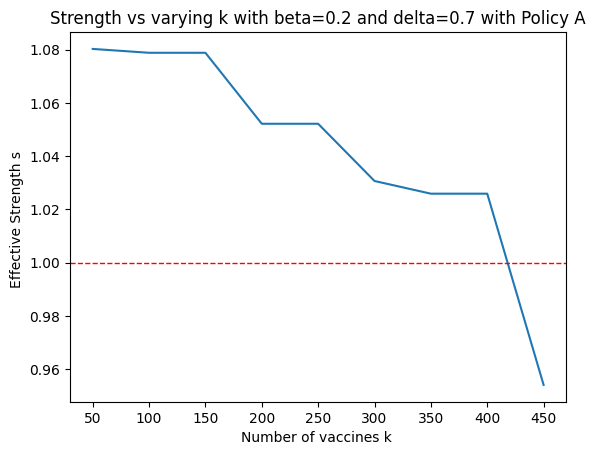
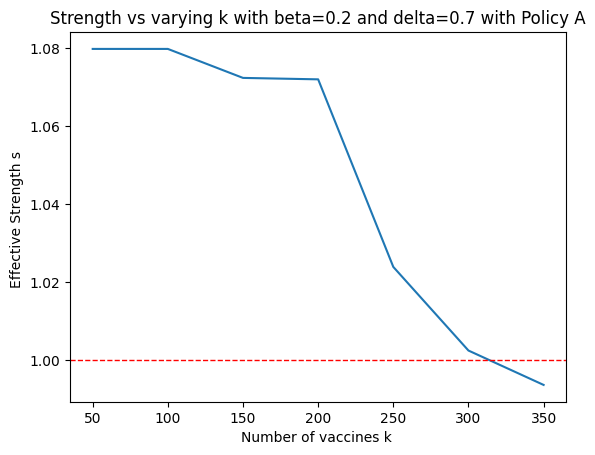
Add part 2 and other code updates

diff --git a/main.py b/main.py
@@ -3,9 +3,9 @@ import numpy as np
 import matplotlib.pyplot as plt
 import random
 from operator import itemgetter
-from copy import copy, deepcopy
+from copy import deepcopy
 
-random.seed(100)
+random.seed(1000)
 
 #Given values for the model to run on
 beta1 = 0.2
@@ -62,24 +62,68 @@ def static_beta(eigen_value, beta, title):
     else:
         return max_delta
 
+def propagate_virus(infected_nodes, infected_node_neighbours, beta, delta):
+    infected_nodes_new = deepcopy(infected_nodes)
+    for node in infected_node_neighbours:
+        # getting a random number from [0,2) with probability 1-beta and beta
+        # 1 will have probablity of beta and if 1 then include in infected
+        if(np.random.choice(2,1,p=[1-beta, beta])[0]):
+            infected_nodes_new.append(node)
+    for node in infected_nodes:
+        # getting a random number from [0,2) with probability 1-delta and delta
+        # 1 will have probablity of delta and if 1 then remove from infected
+        if(np.random.choice(2,1,p=[1-delta, delta])[0]):
+            infected_nodes_new.remove(node)
+    return infected_nodes_new
 
-def policy_A(adjacency_matrix, g, k):
+def plot_propagation_over_time(g, beta, delta,t):
+    total_node = nx.number_of_nodes(g)
+    # initially 1/10 nodes are infected at t=0
+    c = int(total_node/10)
+    infected_nodes = list(np.random.choice(total_node,c,replace=False))
+    infection_fraction_values = []
+    infection_fraction_values.append(float(len(infected_nodes))/float(total_node))
+    for i in range(t):        
+        # calculating the neighbours of currently infected nodes that receive the virus
+        infected_node_neighbours = []
+        for node in infected_nodes:
+            for neighbour in g.neighbors(node):
+                if neighbour not in infected_nodes:
+                    infected_node_neighbours.append(neighbour)
+        # send list of neighbours and infected nodes to decide who gets infected and cured
+        infected_nodes = propagate_virus(infected_nodes, infected_node_neighbours, beta, delta)
+        infection_fraction = float(len(infected_nodes))/float(total_node)
+        infection_fraction_values.append(infection_fraction)
+    return infection_fraction_values
+
+def plot_simulation(series, title, n):
+    #series = np.array(series) / total_node
+    series = np.mean(series, axis=0)
+    plt.plot(series)
+    plt.title(title)
+    plt.xlabel('Times')
+    plt.ylabel(f'Avg of Fraction of infected nodes over {n} iterations')
+    plt.savefig('./results/{}.png'.format(title), bbox_inches='tight')
+    plt.close()
+
+def policy_A(g, k):
     immunized = set()
     total_node = nx.number_of_nodes(g)
-    while len(immunized) < k:
-        # get a random node from the network
-        r = random.randint(0, total_node-1)
-        if r not in immunized:
-            immunized.add(r)
+    immunized = list(np.random.choice(total_node,k,replace=False))
+    for i in immunized:
+        g.remove_node(i)
     # vaccinate the chosed nodes, no edge so cannot infect anyone
-    for node in immunized:
-        for i in range(len(adjacency_matrix[node])):
-            adjacency_matrix[node][i] = 0
-            adjacency_matrix[i][node] = 0
-    return adjacency_matrix
+    # create empty adjacency matrix
+    new_adjacency_matrix = [[0 for _ in range(total_node)] for _ in range(total_node)]
+    # populate the adjacency matrix 1 edge at a time
+    for i in nx.edges(g):
+        new_adjacency_matrix[i[0]][i[1]] = 1
+        new_adjacency_matrix[i[1]][i[0]] = 1
+    return new_adjacency_matrix
 
-def policy_B(adjacency_matrix, g, k):
+def policy_B(g, k):
     immunized = set()
+    total_node = nx.number_of_nodes(g)
     # sort the nodes based on degree of node
     degree = sorted(list(g.degree()), key=lambda x: x[1], reverse=1)
     for i in range(k):
@@ -87,10 +131,14 @@ def policy_B(adjacency_matrix, g, k):
 
     for node in immunized:
         # vaccinate the chosen nodes, no edge so cannot infect anyone
-        for i in range(len(adjacency_matrix[node])):
-            adjacency_matrix[node][i] = 0
-            adjacency_matrix[i][node] = 0
-    return adjacency_matrix
+        g.remove_node(node)
+    # create empty adjacency matrix    
+    new_adjacency_matrix = [[0 for _ in range(total_node)] for _ in range(total_node)]
+    # populate the adjacency matrix 1 edge at a time
+    for i in nx.edges(g):
+        new_adjacency_matrix[i[0]][i[1]] = 1
+        new_adjacency_matrix[i[1]][i[0]] = 1
+    return new_adjacency_matrix
 
 def policy_C(g, k):
     immunized = set()
@@ -104,7 +152,7 @@ def policy_C(g, k):
 
     # create empty adjacency matrix
     new_adjacency_matrix = [[0 for _ in range(total_node)] for _ in range(total_node)]
-    # populate the adjacency matrix
+    # populate the adjacency matrix 1 edge at a time
     for i in nx.edges(g):
         new_adjacency_matrix[i[0]][i[1]] = 1
         new_adjacency_matrix[i[1]][i[0]] = 1
@@ -125,21 +173,17 @@ def policy_D(adjacency_matrix, g, k):
         g.remove_node(i)
     # create empty adjacency matrix
     new_adjacency_matrix = []
-    for i in range(total_node):
-        row = []
-        for j in range(total_node):
-            row.append(0)
-        new_adjacency_matrix.append(row)
+    #total_node = nx.number_of_nodes(g)
+    new_adjacency_matrix = [[0 for _ in range(total_node)] for _ in range(total_node)]
     # populate the adjacency matrix
     for i in nx.edges(g):
         new_adjacency_matrix[i[0]][i[1]] = 1
         new_adjacency_matrix[i[1]][i[0]] = 1
     return new_adjacency_matrix
 
-def find_k_vaccine(adjacency_matrix, g, policy):
+def find_k_vaccine(adjacency_matrix, g, policy, step = 50):
     strengths = []
     number_vaccines = []
-    step = 50
     #when flag set to 0 we have found min k for which strength <=1
     flag = 1
     while flag:
@@ -147,9 +191,9 @@ def find_k_vaccine(adjacency_matrix, g, policy):
             step if not number_vaccines else number_vaccines[-1] + step)
         k = number_vaccines[-1]
         if policy == 'A':
-            new_adjacency = policy_A(adjacency_matrix.copy(), g.copy(), k)
+            new_adjacency = policy_A(g.copy(), k)
         elif policy == 'B':
-            new_adjacency = policy_B(adjacency_matrix.copy(), g.copy(), k)
+            new_adjacency = policy_B(g.copy(), k)
         elif policy == 'C':
             new_adjacency = policy_C(g.copy(), k)
         elif policy == 'D':
@@ -192,13 +236,14 @@ def main():
     for i in nx.edges(g):
         adjacency_matrix[i[0]][i[1]] = 1
         adjacency_matrix[i[1]][i[0]] = 1
-    ''''
+    print(len(adjacency_matrix))
+    print(len(adjacency_matrix[0]))
     largest_eigenvalue = compute_largest_eigen_value(adjacency_matrix)
     s1 = largest_eigenvalue * Cvpm1
     s2 = largest_eigenvalue * Cvpm2
     print(f"Effective strengh with beta = {beta1}, delta = {delta1} is: {s1}")
     print(f"Effective strengh with beta = {beta2}, delta = {delta2} is: {s2}")
-    
+
     # b. Fix delta and evaluate beta affecting the effective strength
     # delta1 results
     fixed_delta1_min_beta = static_delta(
@@ -218,25 +263,41 @@ def main():
     fixed_beta2_max_delta = static_beta(
         largest_eigenvalue, beta2, f'Strength vs varying delta with beta={beta2}')
     print(f"Maximum healing probability: {fixed_beta2_max_delta} with fixed beta={beta2}")
-    pass
+
     print('OPTION 1 PART 2')
+    # # Part 2: Simulates the propagation of virus with the SIS VPM
+    print(f'Simulating the virus propagation with beta = {beta1}, delta = {delta1}')
+    # beta1 and delta1 results
+    first_series = []
+    for i in range(10):
+        res = plot_propagation_over_time(g, beta1, delta1, t=100)
+        first_series.append(res)
+    plot_simulation(first_series, f'Simulation with beta = {beta1} and delta = {delta1}', n=10)
+
+    print(f'Simulating the virus propagation with beta = {beta2}, delta = {delta2}')
+    # beta2 and delta2 results
+    second_series = []
+    for i in range(10):
+        res = plot_propagation_over_time(g, beta2, delta2, t=100)
+        second_series.append(res)
+    plot_simulation(second_series, f'Simulation with beta = {beta2} and delta = {delta2}', n=10)
 
 
     print('OPTION 1 PART 3')
     # Implements immunization policies
     # Calculate the effective strength (s) of the virus on the immunized contact network
     print("Immunization with Policy A")
-    adjacency_matrix_A = policy_A(adjacency_matrix.copy(), g.copy(), k=200)
+    adjacency_matrix_A = policy_A(g.copy(), k=200)
     largest_eigenvalue_A = compute_largest_eigen_value(adjacency_matrix_A)
     strength_A = largest_eigenvalue_A * Cvpm1
     print(f"Effective strengh of Policy A with beta = {beta1}, delta = {delta1} is: {strength_A}")
 
     print("Immunization with Policy B")
-    adjacency_matrix_B = policy_B(adjacency_matrix.copy(), g.copy(), k=200)
+    adjacency_matrix_B = policy_B(g.copy(), k=200)
     largest_eigenvalue_B = compute_largest_eigen_value(adjacency_matrix_B)
     strength_B = largest_eigenvalue_B * Cvpm1
     print(f"Effective strengh of Policy B with beta = {beta1}, delta = {delta1} is: {strength_B}")
-'''
+
     print("Immunization with Policy C")
     adjacency_matrix_C = policy_C(g.copy(), k=200)
     largest_eigenvalue_C = compute_largest_eigen_value(adjacency_matrix_C)
@@ -249,22 +310,56 @@ def main():
     strength_D = largest_eigenvalue_D * Cvpm1
     print(f"Effective strengh of Policy D with beta = {beta1}, delta = {delta1} is: {strength_D}")
     
-    # Find minimum number of vaccines required k
+    # Find minimum number of vaccines required k and plotting avg fraction vs varying k
     print("Finding minimum number of vaccine k for policy A")
-    min_number_vaccines_A = find_k_vaccine(adjacency_matrix, g, 'A')
+    min_number_vaccines_A = find_k_vaccine(adjacency_matrix, g, 'A', 50)
     print(f'Minimum vaccines required for policy A with beta={beta1}, delta={delta1} is: {min_number_vaccines_A}')
-
+   
     print("Finding minimum number of vaccine k for policy B")
-    min_number_vaccines_B = find_k_vaccine(adjacency_matrix, g, 'B')
+    min_number_vaccines_B = find_k_vaccine(adjacency_matrix, g, 'B', 5)
     print(f'Minimum vaccines required for policy A with beta={beta1}, delta={delta1} is: {min_number_vaccines_B}')
 
     print("Finding minimum number of vaccine k for policy C")
-    min_number_vaccines_C = find_k_vaccine(adjacency_matrix, g, 'C')
+    min_number_vaccines_C = find_k_vaccine(adjacency_matrix, g, 'C', 50)
     print(f'Minimum vaccines required for policy C with beta={beta1}, delta={delta1} is: {min_number_vaccines_C}')
 
     print("Finding minimum number of vaccine k for policy D")
-    min_number_vaccines_D = find_k_vaccine(adjacency_matrix, g, 'D')
+    min_number_vaccines_D = find_k_vaccine(adjacency_matrix, g, 'D', 50)
     print(f'Minimum vaccines required for policy D with beta={beta1}, delta={delta1} is: {min_number_vaccines_D}')
+ 
+    # f. simulation for the immunized contact network
+    print("Simulating Policy A")
+    series_A = []
+    for i in range(10):
+        g = nx.from_numpy_array(np.array(adjacency_matrix_A))
+        res = plot_propagation_over_time(g, beta1, delta1, t=100)
+        series_A.append(res)
+    plot_simulation(series_A, f'Simulation with beta = {beta1} and delta = {delta1} for Policy A', n=10)
+
+    print("Simulating Policy B")
+    series_B = []
+    for i in range(10):
+        g = nx.from_numpy_array(np.array(adjacency_matrix_B))
+        res = plot_propagation_over_time(g, beta1, delta1, t=100)
+        series_B.append(res)
+    plot_simulation(series_B, f'Simulation with beta = {beta1} and delta = {delta1} for Policy B', n=10)
+
+    print("Simulating Policy C")
+    series_C = []
+    for i in range(10):
+        g = nx.from_numpy_array(np.array(adjacency_matrix_C))
+        res = plot_propagation_over_time(g, beta1, delta1, t=100)
+        series_C.append(res)
+    plot_simulation(series_C, f'Simulation with beta= {beta1} and delta = {delta1} for Policy C', n=10)
+
+    print("Simulating Policy D")
+    series_D = []
+    for i in range(10):
+        g = nx.from_numpy_array(np.array(adjacency_matrix_D))
+        res = plot_propagation_over_time(g, beta1, delta1, t=100)
+        series_D.append(res)
+    plot_simulation(series_D, f'Simulation with beta = {beta1} and delta = {delta1} for Policy D', n=10)
+
 
 if __name__ == "__main__":
     main()
